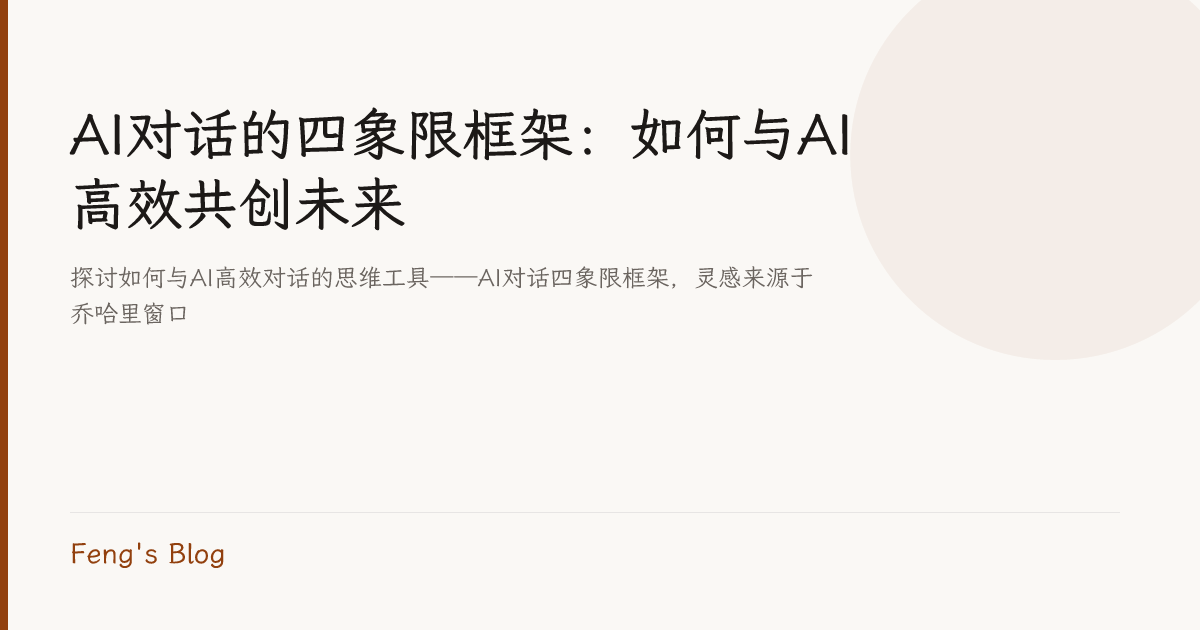
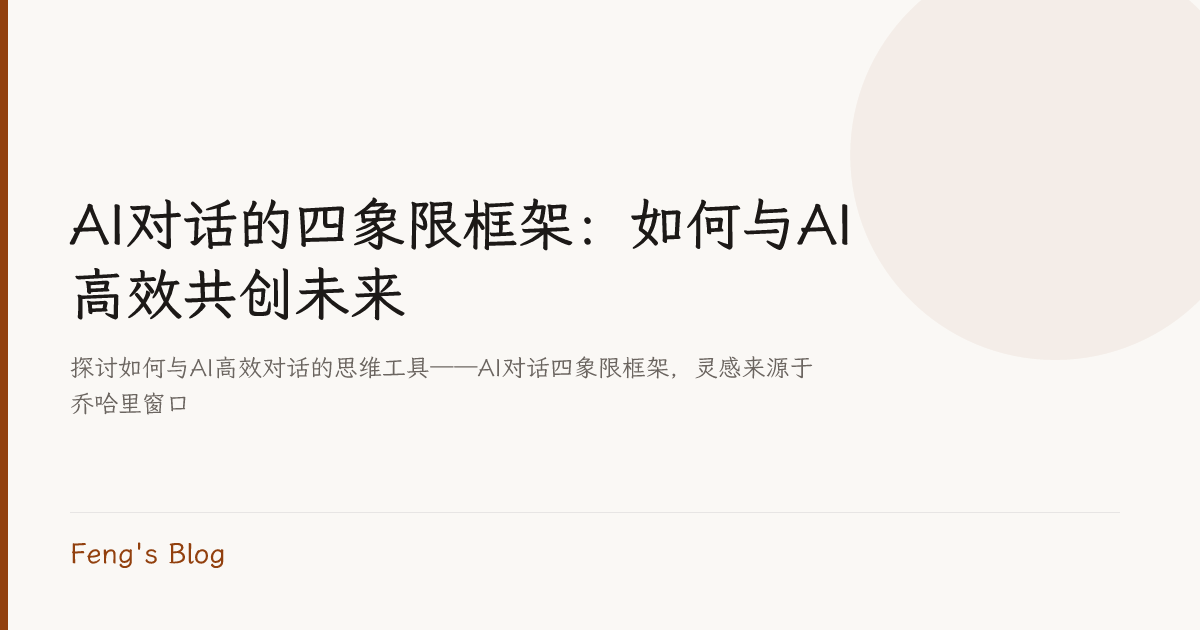
style: OG 图片标题和摘要垂直居中 - 将标题+摘要包裹在 flex 容器中，justifyContent: center - 移除 spacer div，由 flex 布局自动分配空间

diff --git a/scripts/og-template.js b/scripts/og-template.js
@@ -62,41 +62,48 @@ export function createOGTemplate({ title, description, date, siteName }) {
                   ],
                 },
               },
-              // Title
+              // Text block — vertically centered
               {
                 type: 'div',
                 props: {
                   style: {
-                    fontSize: '56px',
-                    fontWeight: 500,
-                    lineHeight: 1.25,
-                    color: '#1C1917',
-                    maxWidth: '820px',
+                    flex: 1,
+                    display: 'flex',
+                    flexDirection: 'column',
+                    justifyContent: 'center',
                   },
-                  children: title,
-                },
-              },
-              // Description
-              description
-                ? {
-                    type: 'div',
-                    props: {
-                      style: {
-                        fontSize: '24px',
-                        color: '#6B6560',
-                        lineHeight: 1.5,
-                        maxWidth: '760px',
-                        marginTop: '20px',
+                  children: [
+                    // Title
+                    {
+                      type: 'div',
+                      props: {
+                        style: {
+                          fontSize: '56px',
+                          fontWeight: 500,
+                          lineHeight: 1.25,
+                          color: '#1C1917',
+                          maxWidth: '820px',
+                        },
+                        children: title,
                       },
-                      children: description,
                     },
-                  }
-                : null,
-              // Spacer — push bottom bar down
-              {
-                type: 'div',
-                props: {
-                  style: { flex: 1 },
+                    // Description
+                    description
+                      ? {
+                          type: 'div',
+                          props: {
+                            style: {
+                              fontSize: '24px',
+                              color: '#6B6560',
+                              lineHeight: 1.5,
+                              maxWidth: '760px',
+                              marginTop: '20px',
+                            },
+                            children: description,
+                          },
+                        }
+                      : null,
+                  ].filter(Boolean),
                 },
               },
               // Bottom bar
@@ -135,7 +142,7 @@ export function createOGTemplate({ title, description, date, siteName }) {
                   ],
                 },
               },
-            ].filter(Boolean),
+            ],
           },
         },
       ],